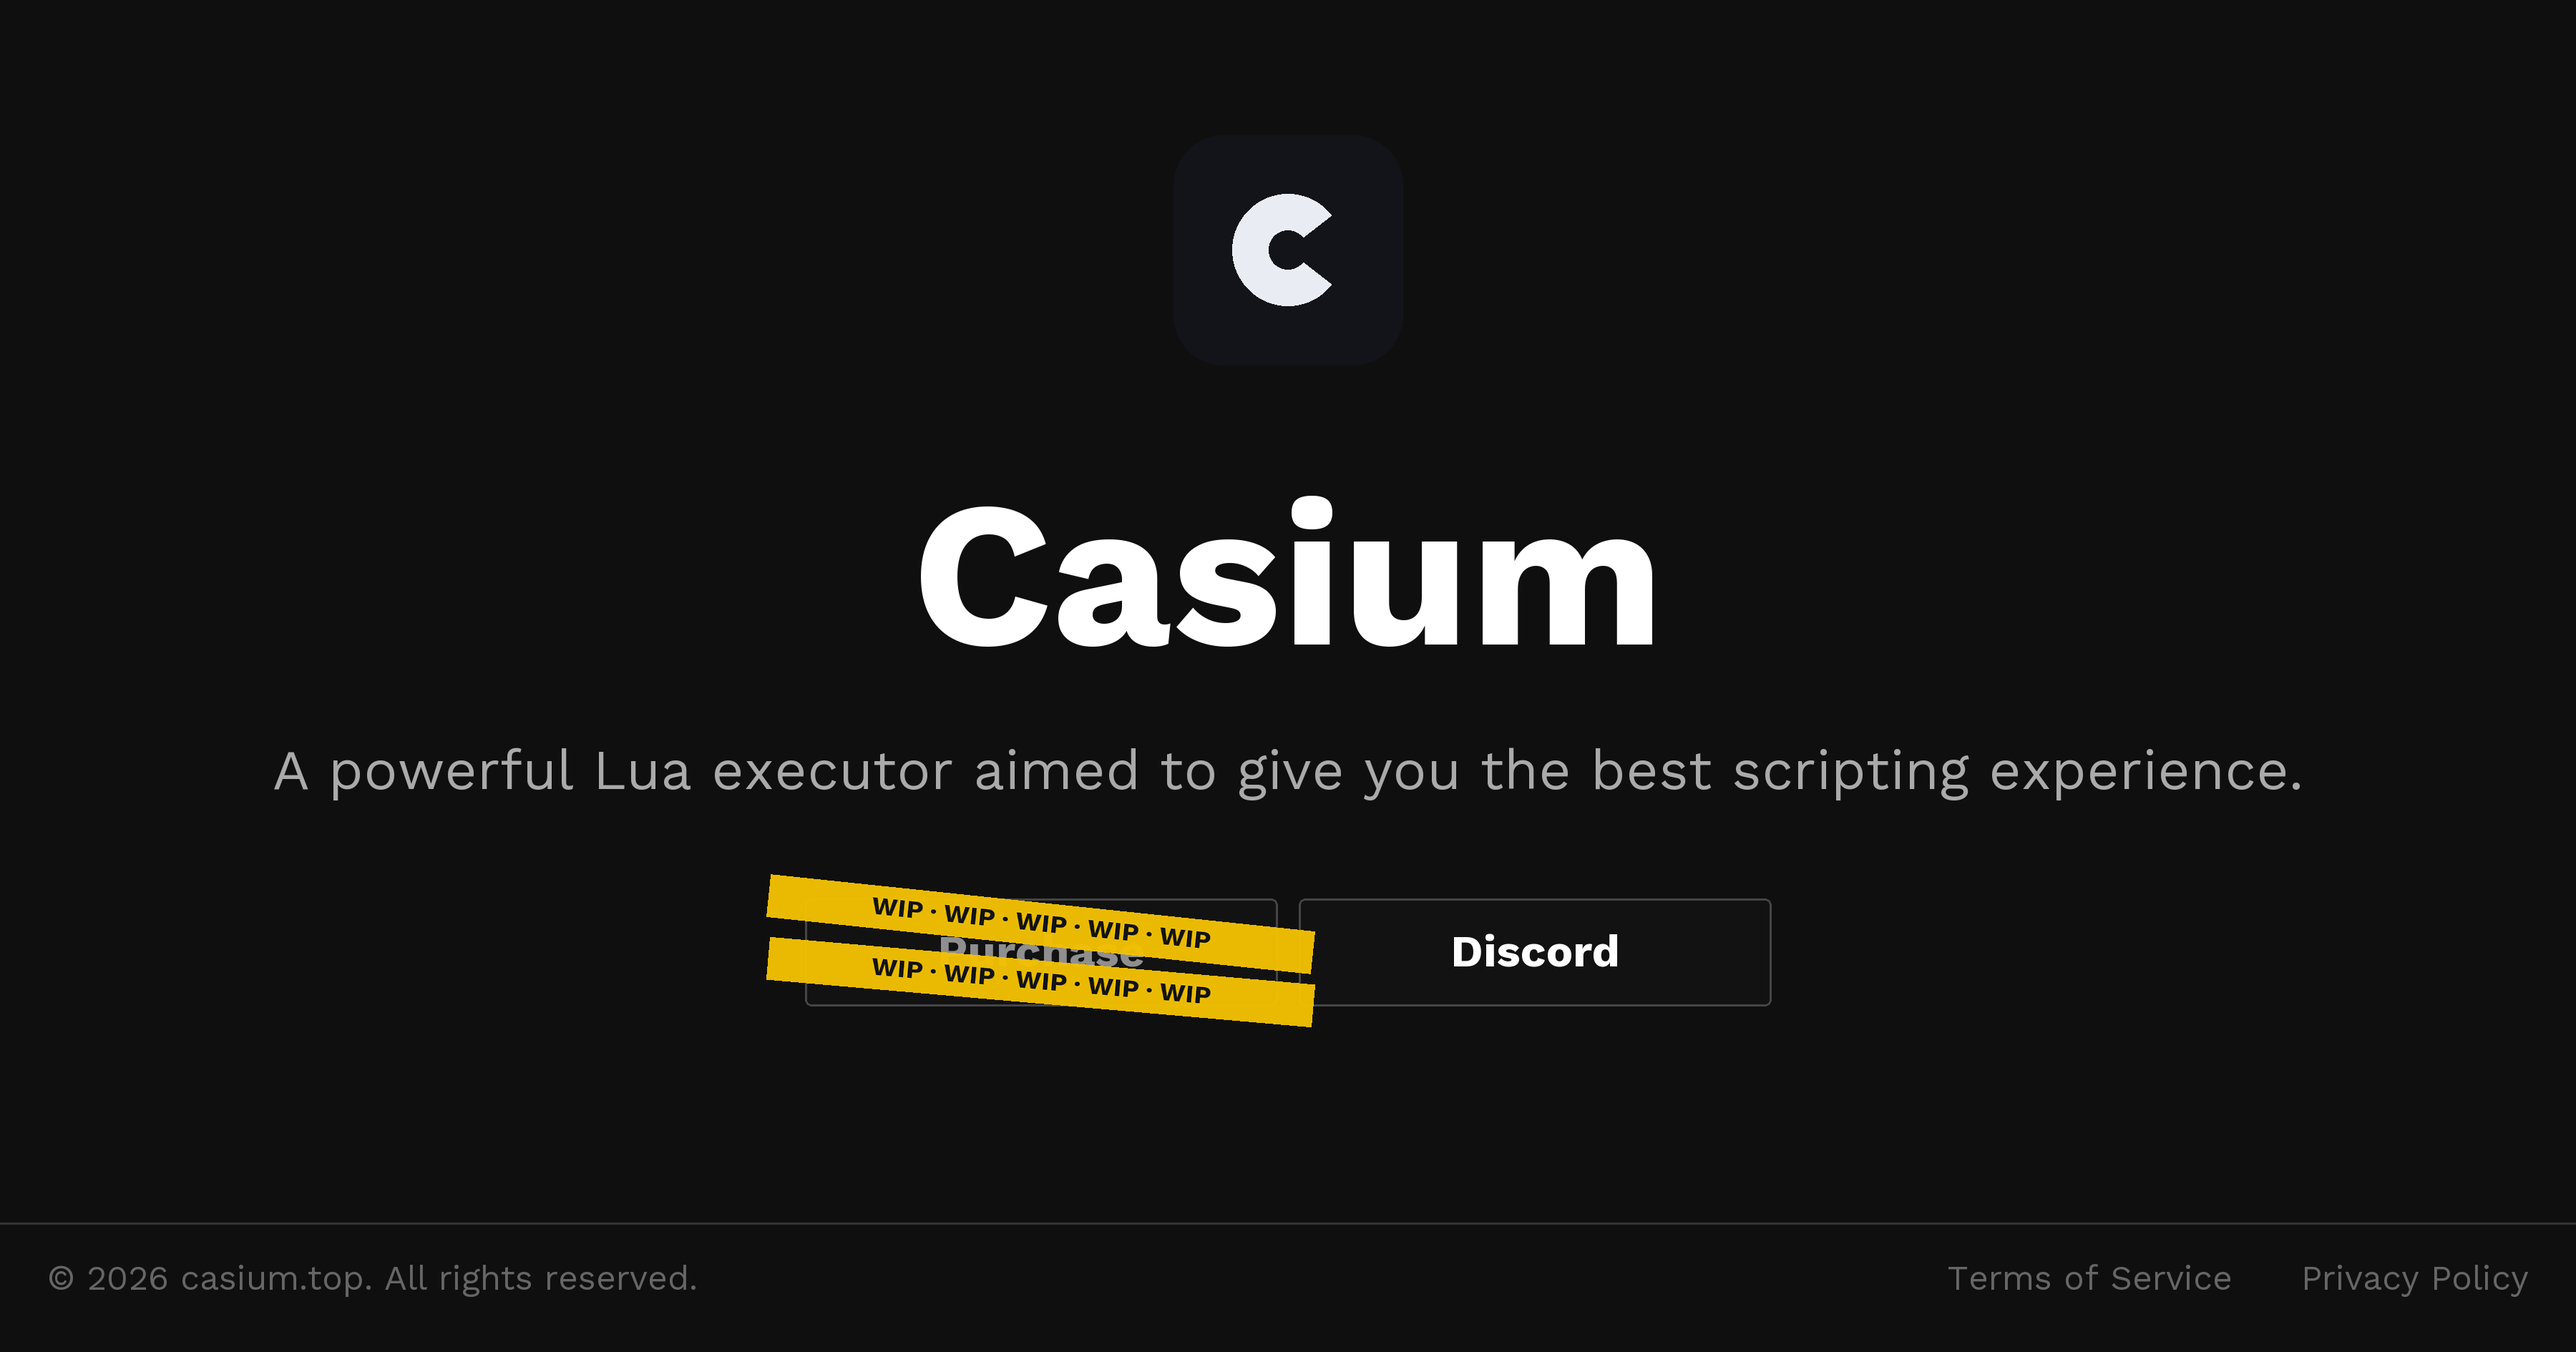
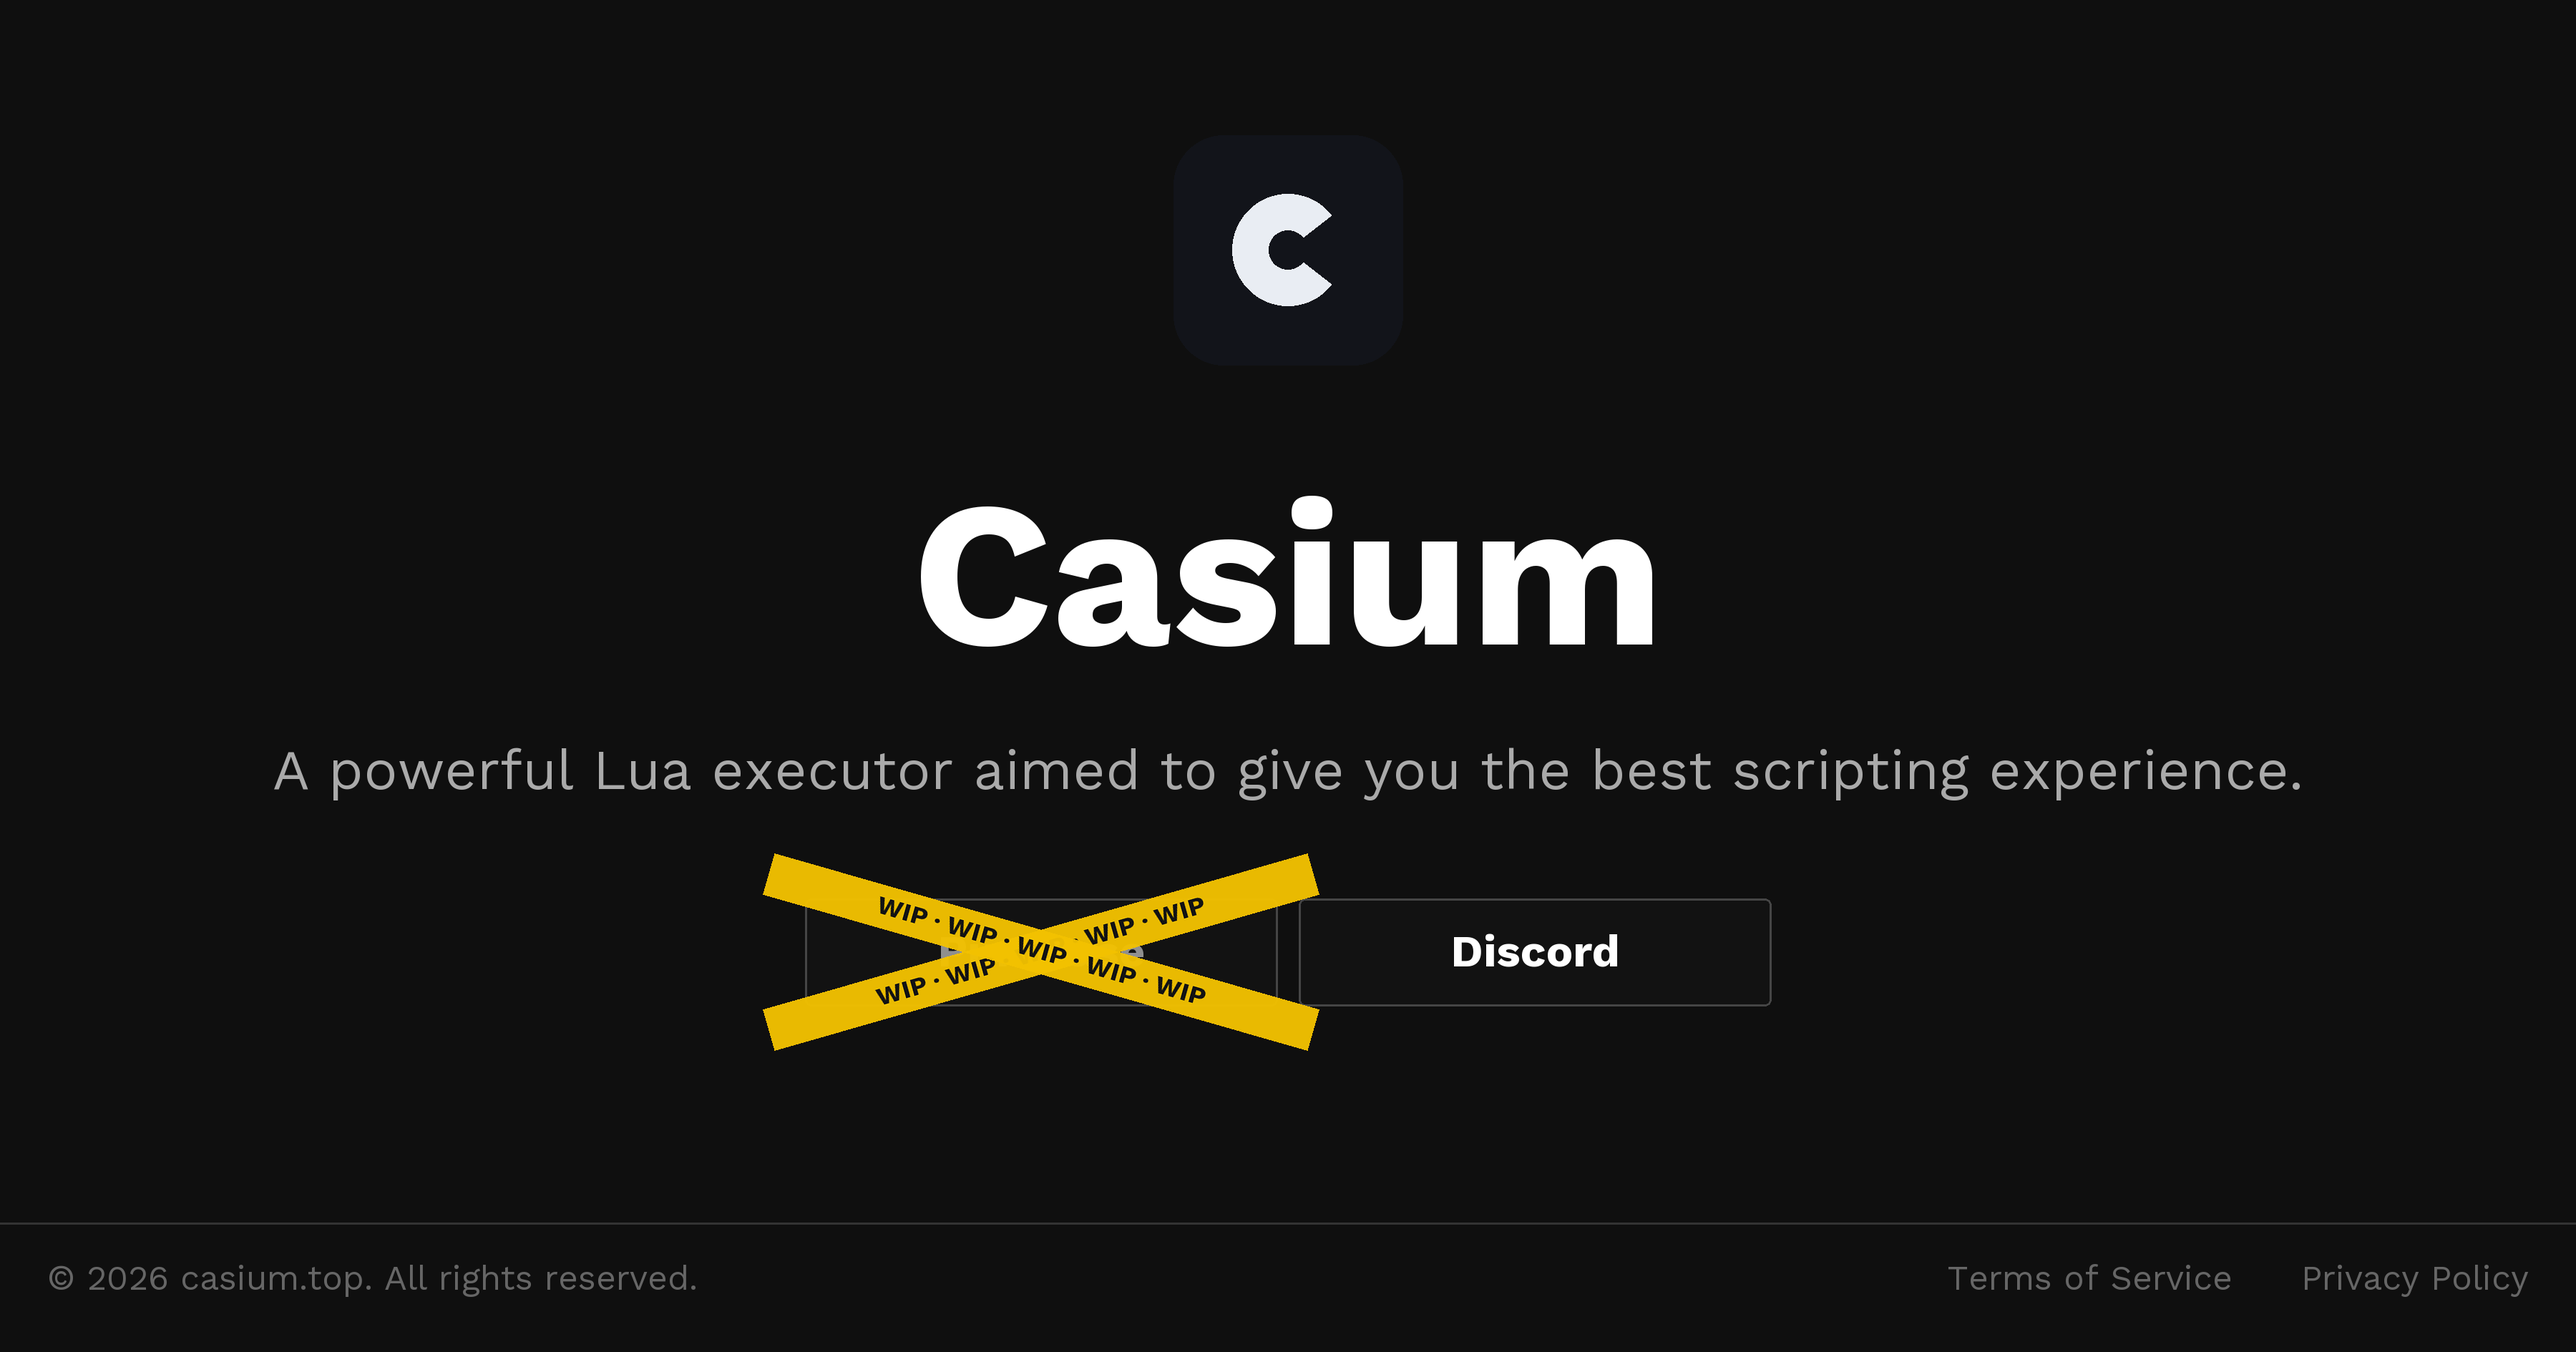
Tape straps crossed into an X over the Purchase button (page + OG card)
Per the sketch: one \ strap and one / strap through the button centre
(+-16deg, 122% width so the ends overhang the edges), WIP print on both.
site.css bumped to v7.

Changed region(s): [[0.28, 0.6243, 0.5289, 0.7804]]

diff --git a/website/public/assets/css/site.css b/website/public/assets/css/site.css
@@ -97,8 +97,9 @@
   user-select: none;
 }
 
-.tape-1 { top: 6px;    transform: translateX(-50%) rotate(-6deg); }
-.tape-2 { bottom: 6px; transform: translateX(-50%) rotate(-5deg); }
+/* crossed like taped-over boards: one \ and one / through the centre */
+.tape-1 { top: 50%; width: 122%; transform: translate(-50%, -50%) rotate(16deg); }
+.tape-2 { top: 50%; width: 122%; transform: translate(-50%, -50%) rotate(-16deg); }
 
 /* ------------------------------------------------------------------ footer bar */
 

diff --git a/website/tools/build-images.py b/website/tools/build-images.py
@@ -192,8 +192,8 @@ def build_og(fonts: dict[str, str], path: str) -> None:
     btn_cx = cx - total / 2 + width / 2
     btn_cy = y + height / 2
     f_tape = load(fonts["work-700"], 12 * SS)
-    for angle, dy in ((-6, -height * 0.26), (-5, height * 0.28)):
-        tl = int(width * 1.16)
+    for angle, dy in ((16, 0), (-16, 0)):  # crossed X over the button
+        tl = int(width * 1.2)
         th = int(20 * SS)
         strip = Image.new("RGBA", (tl, th), (0, 0, 0, 0))
         sd = ImageDraw.Draw(strip)
